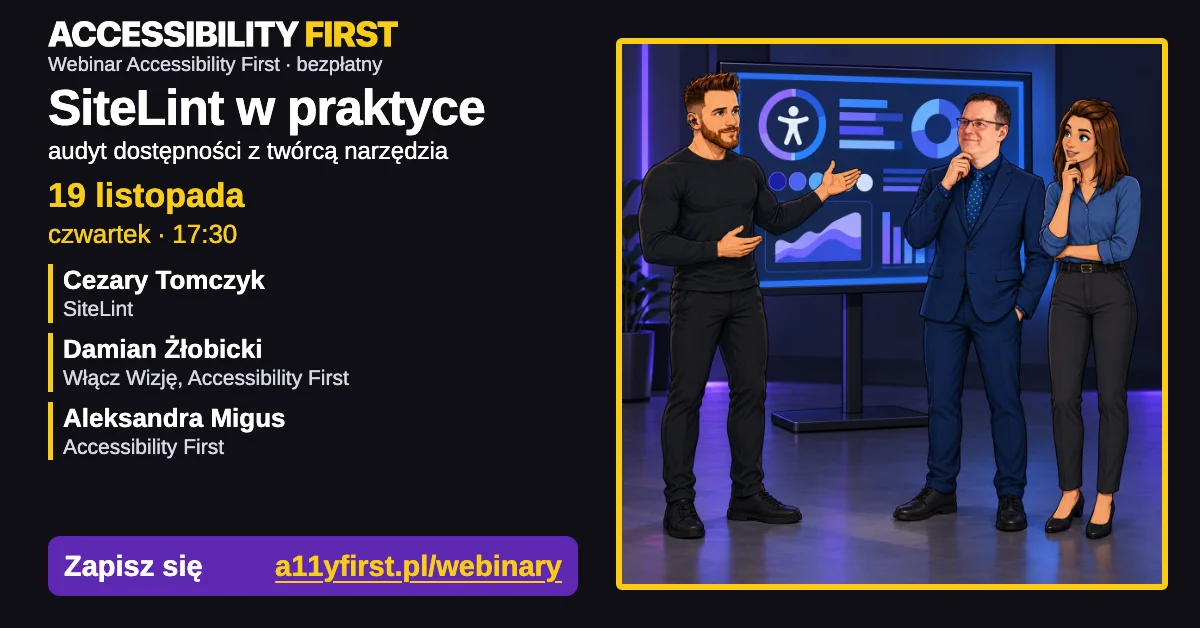
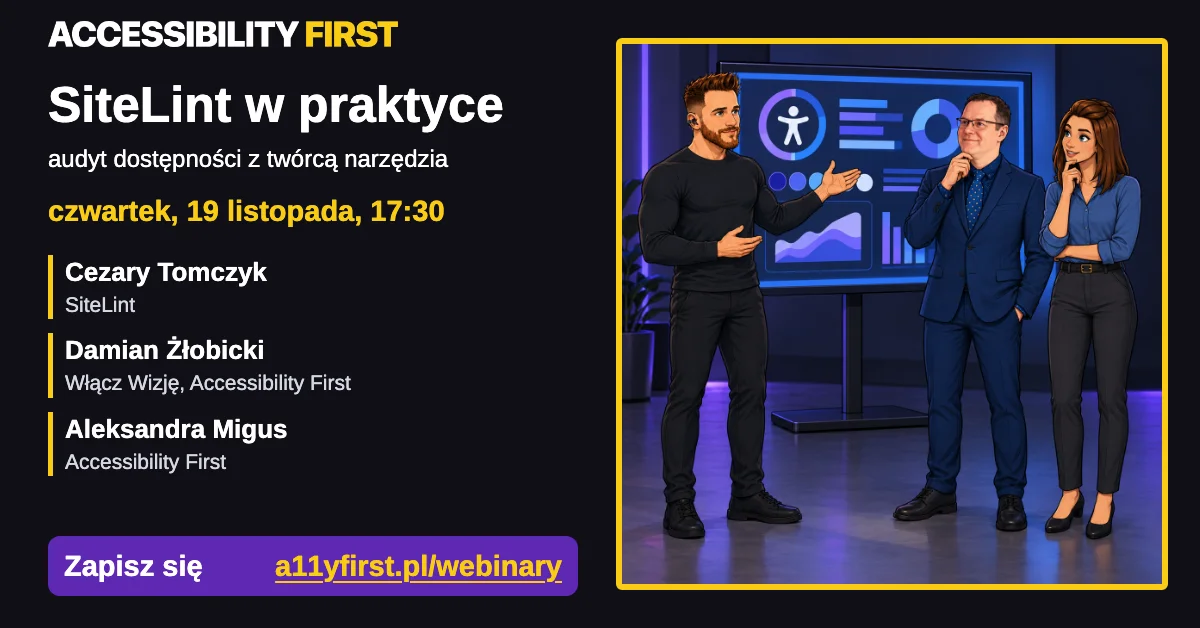
SiteLint: grafika OG w ukladzie v5 (uwagi Damiana 28.10) i alt opisujacy tresc
Claude-Session: https://claude.ai/code/session_018Wus6fJKrnewAEMPxJTZou

Changed region(s): [[0.0308, 0.0908, 0.4317, 0.3933], [0.0308, 0.5143, 0.3083, 0.7564], [0.0308, 0.4236, 0.2467, 0.5143]]

diff --git a/public/webinary/sitelint-w-praktyce.html b/public/webinary/sitelint-w-praktyce.html
@@ -20,7 +20,7 @@
     <meta property="og:image" content="https://www.a11yfirst.pl/assets/webinary/2026/sitelint-w-praktyce/og-sitelint-1200x628.png">
     <meta property="og:image:width" content="1200">
     <meta property="og:image:height" content="628">
-    <meta property="og:image:alt" content="Accessibility First. SiteLint w praktyce z twórcą narzędzia. Bezpłatny webinar online 19 listopada 2026 o 17:30. Prowadzą: Cezary Tomczyk, Damian Żłobicki i Aleksandra Migus. Zapisz się na a11yfirst.pl/webinary.">
+    <meta property="og:image:alt" content="Accessibility First. Webinar „SiteLint w praktyce”: audyt dostępności z twórcą narzędzia. Czwartek, 19 listopada 2026, 17:30. Prowadzą: Cezary Tomczyk (SiteLint), Damian Żłobicki (Włącz Wizję, Accessibility First) i Aleksandra Migus (Accessibility First). Zapisz się na a11yfirst.pl/webinary. Ilustracja: trójka prowadzących przy ekranie z raportem dostępności.">
     <meta name="twitter:card" content="summary_large_image">
     <meta name="twitter:title" content="Webinar: SiteLint w praktyce, 19.11.2026 - Accessibility First">
     <meta name="twitter:description" content="Bezpłatny webinar online o SiteLint: wtyczka do przeglądarki, DevTools i platforma. Prowadzą Cezary Tomczyk, Damian Żłobicki i Aleksandra Migus. 19 listopada 2026, 17:30-19:00.">
